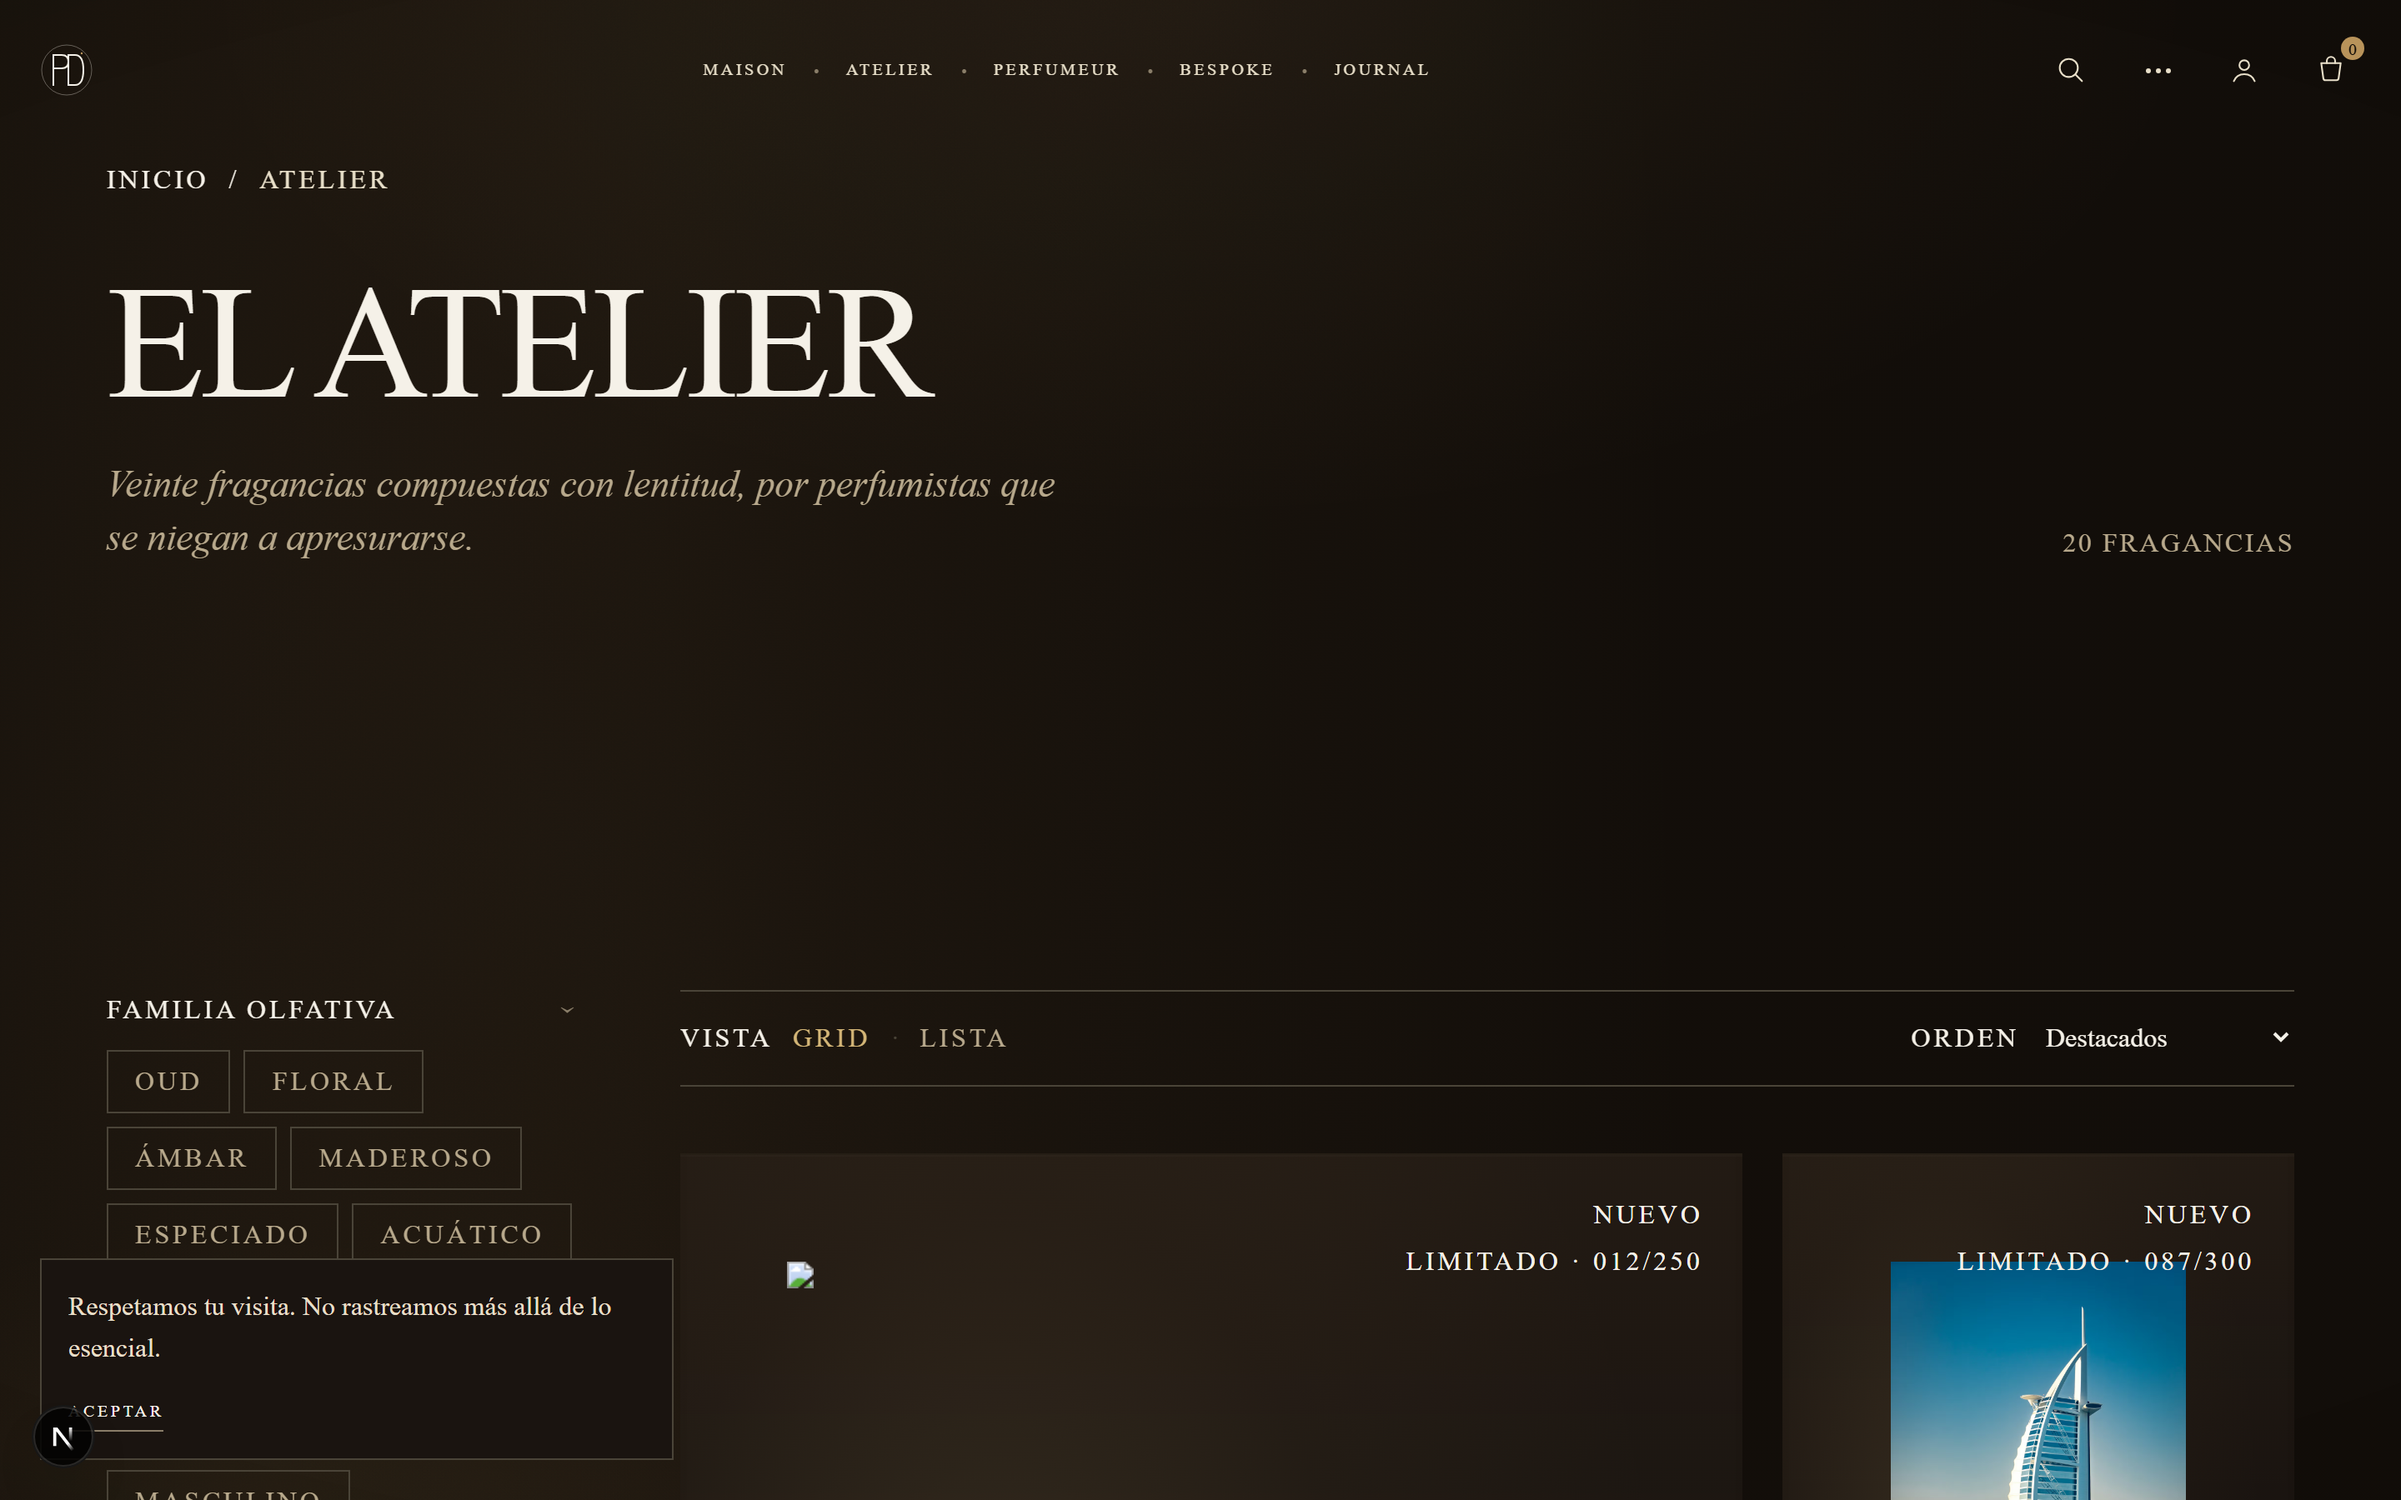
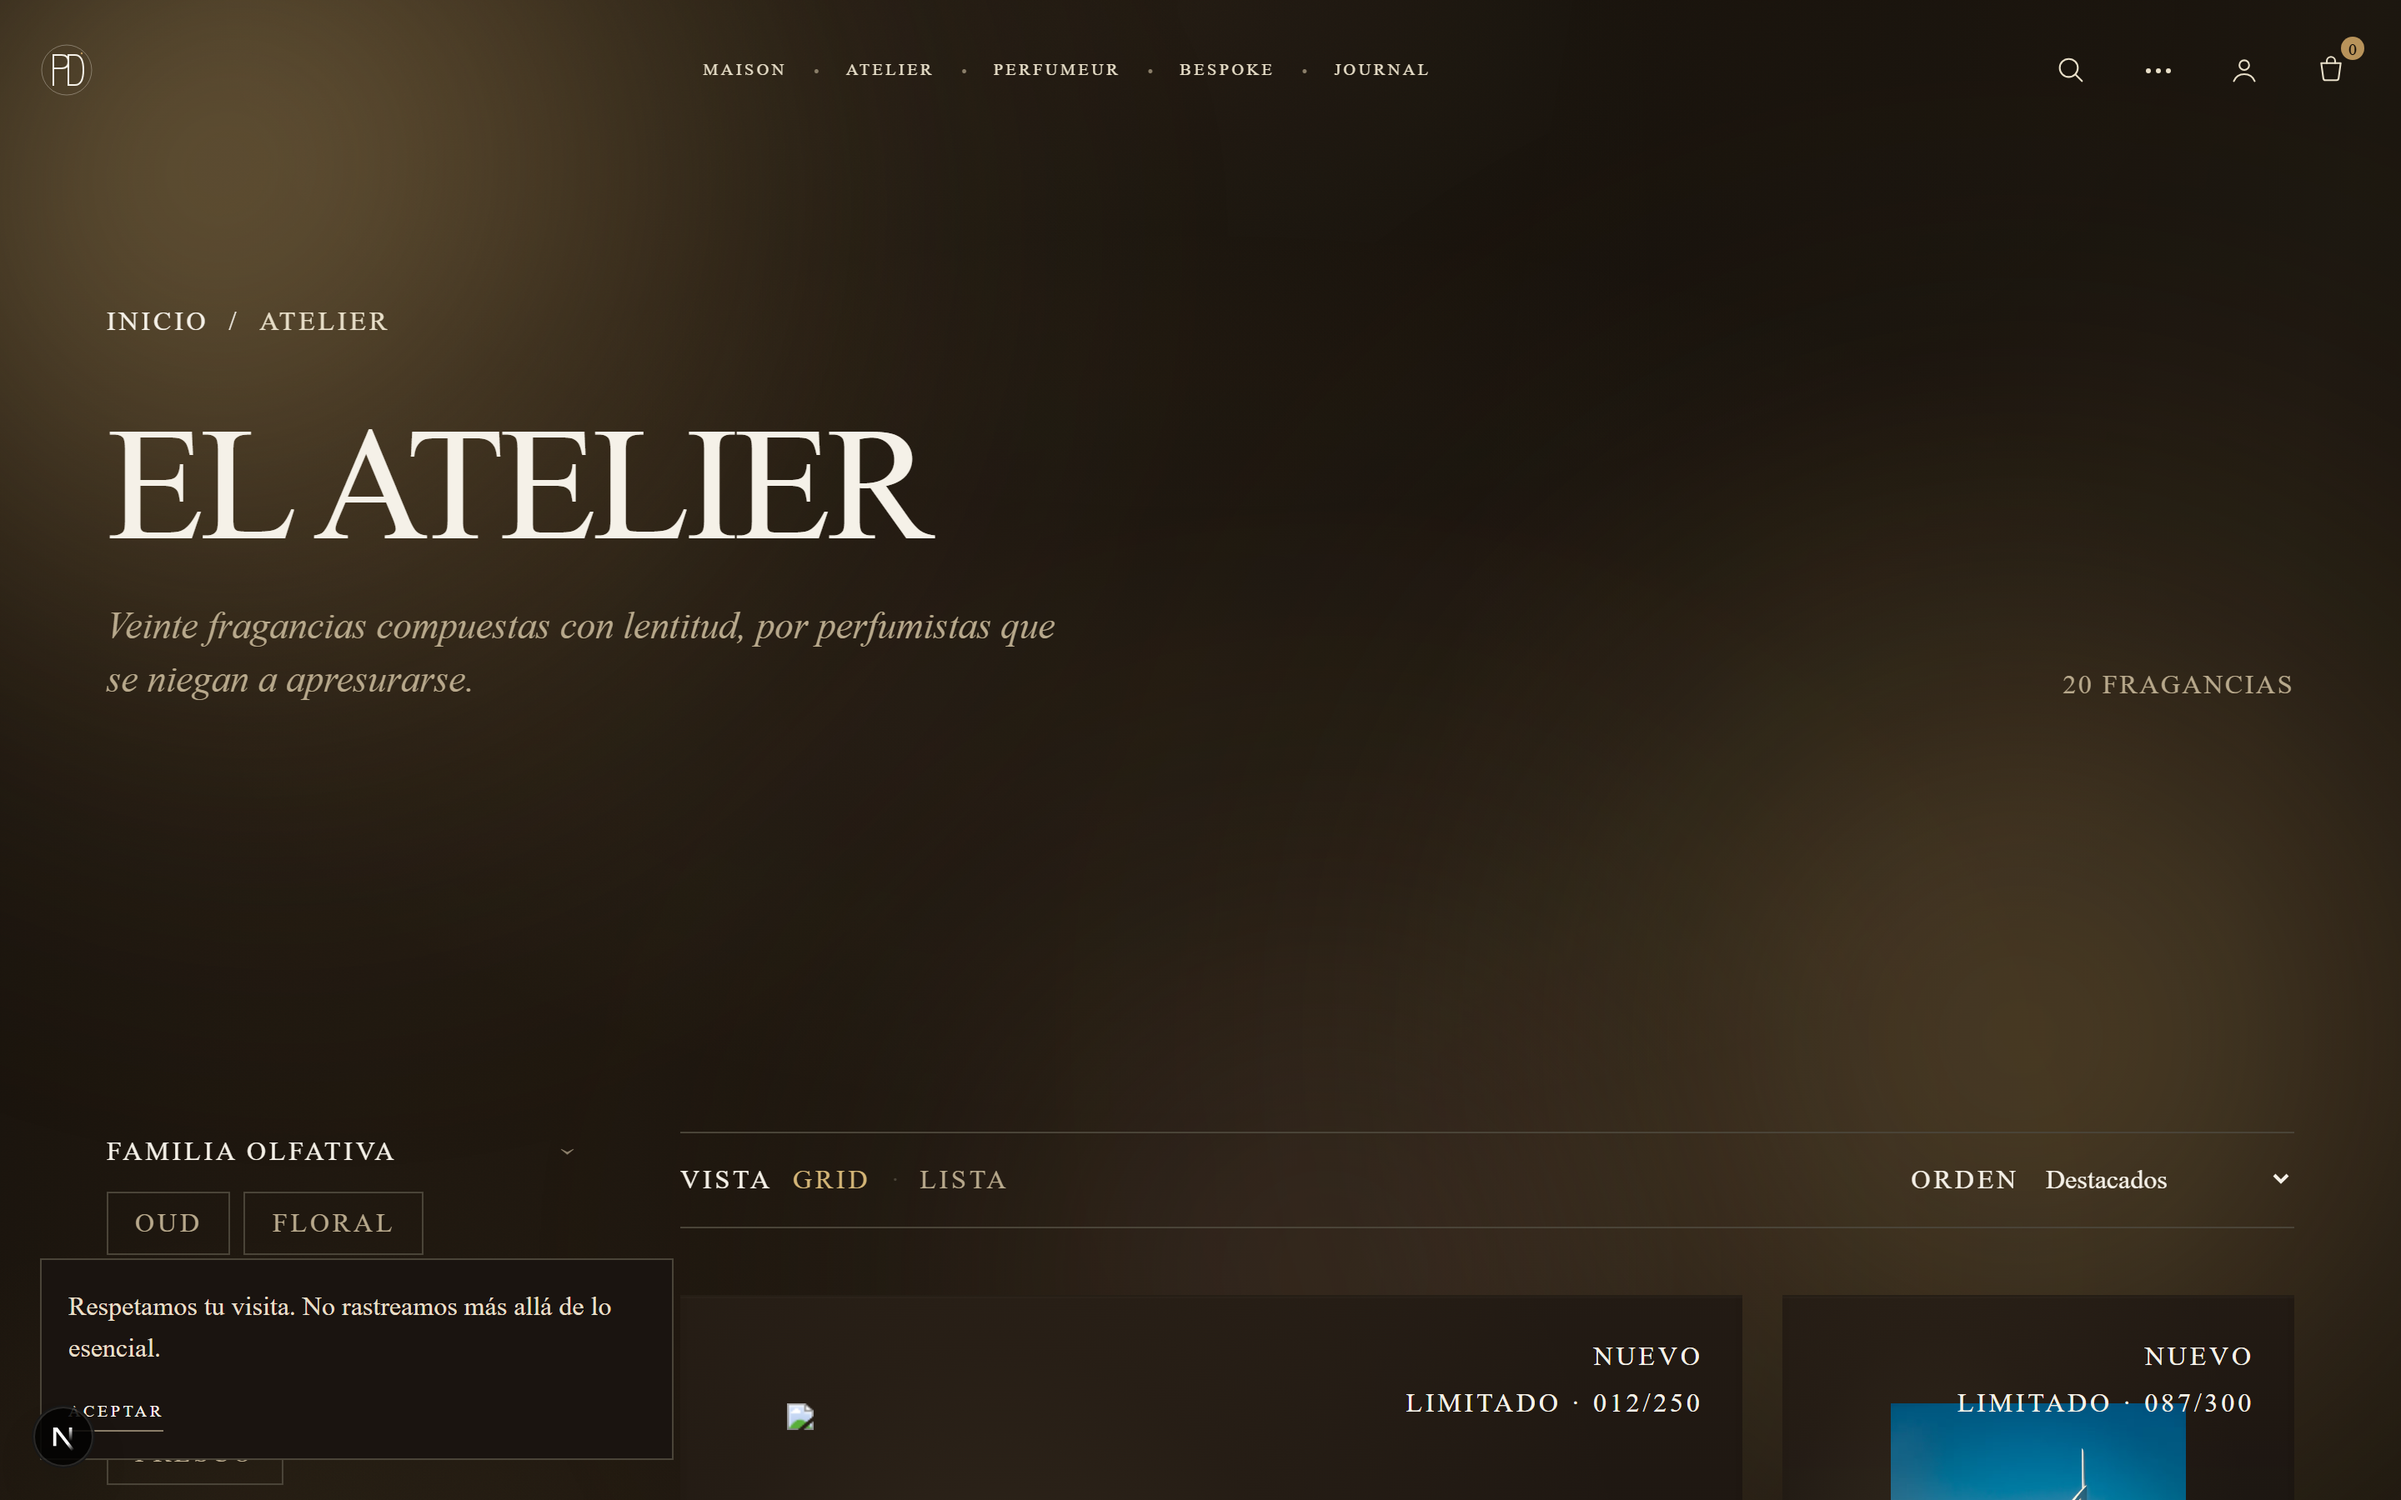
feat(ambient): drifting gold orbs + shimmer + slow warm pulse across all pages
Magic builder returned an object literal so I built the component directly
(faster + matches the brief). New <AmbientBackground/> renders four CSS-only
animated layers between body bg gradients and the vignette:

- 3 drifting blurred orbs (520-820 px) of warm gold + cocoa + rose,
  on three independent ease-in-out alternates of 38/52/46 s. Each shifts
  position + scale + opacity so the composition never repeats visibly.
- Slow horizontal shimmer sweep (24 s linear) — a thin gold band moves
  left to right suggesting an oil lamp drifting through the room.
- 11 s ease-in-out 'breath' on a centred warm gold wash, mix-blend screen.

Layer stack rationalised (z-index):
  body bg (gradients) | body::before halo (0) | body::after grain (1) |
  AmbientBackground orbs (2) | pd-vignette (3) | main + chrome (4)

Reduced motion: all three animations stop, orbs settle at 0.4 opacity.
Pure transform + opacity — GPU only. Verified visually on /atelier where
the orbs now read as warm light pools across the warm cocoa canvas.

diff --git a/app/globals.css b/app/globals.css
@@ -277,18 +277,186 @@ body::after {
   }
 }
 
+/* ─────────────────────────────────────────────────────────────────
+   AMBIENT BACKGROUND · drifting gold orbs + shimmer + pulse
+   Rendered by <AmbientBackground/> in the layout root. Sits BELOW
+   the vignette so the corners darken the orbs. Pure CSS, GPU only
+   (transform + opacity), reduced-motion aware. Below z:2 vignette
+   and z:3 main, above z:0 ambient halo on body.
+   ─────────────────────────────────────────────────────────────── */
+
+.pd-orb {
+  position: absolute;
+  display: block;
+  border-radius: 50%;
+  filter: blur(100px);
+  mix-blend-mode: screen;
+  opacity: 0.85;
+  will-change: transform, opacity;
+}
+
+.pd-orb-1 {
+  width: 640px;
+  height: 640px;
+  top: -160px;
+  left: -120px;
+  background: radial-gradient(
+    circle at 35% 35%,
+    rgba(212, 182, 119, 0.9) 0%,
+    rgba(184, 147, 90, 0.4) 35%,
+    rgba(142, 110, 63, 0.15) 60%,
+    transparent 80%
+  );
+  animation: pd-drift-1 38s ease-in-out infinite alternate;
+}
+
+.pd-orb-2 {
+  width: 820px;
+  height: 820px;
+  top: 25%;
+  right: -200px;
+  background: radial-gradient(
+    circle at 50% 50%,
+    rgba(184, 147, 90, 0.85) 0%,
+    rgba(142, 110, 63, 0.35) 40%,
+    rgba(92, 70, 40, 0.12) 65%,
+    transparent 85%
+  );
+  animation: pd-drift-2 52s ease-in-out infinite alternate;
+}
+
+.pd-orb-3 {
+  width: 540px;
+  height: 540px;
+  bottom: -160px;
+  left: 35%;
+  background: radial-gradient(
+    circle at 50% 50%,
+    rgba(201, 146, 138, 0.55) 0%,
+    rgba(184, 147, 90, 0.25) 45%,
+    transparent 80%
+  );
+  animation: pd-drift-3 46s ease-in-out infinite alternate;
+}
+
+@keyframes pd-drift-1 {
+  0% {
+    transform: translate3d(0, 0, 0) scale(1);
+    opacity: 0.55;
+  }
+  50% {
+    transform: translate3d(60px, 80px, 0) scale(1.08);
+    opacity: 0.7;
+  }
+  100% {
+    transform: translate3d(-30px, 140px, 0) scale(0.95);
+    opacity: 0.5;
+  }
+}
+
+@keyframes pd-drift-2 {
+  0% {
+    transform: translate3d(0, 0, 0) scale(1);
+    opacity: 0.45;
+  }
+  50% {
+    transform: translate3d(-90px, -60px, 0) scale(1.1);
+    opacity: 0.6;
+  }
+  100% {
+    transform: translate3d(40px, 100px, 0) scale(0.92);
+    opacity: 0.4;
+  }
+}
+
+@keyframes pd-drift-3 {
+  0% {
+    transform: translate3d(0, 0, 0) scale(1);
+    opacity: 0.4;
+  }
+  50% {
+    transform: translate3d(80px, -100px, 0) scale(1.15);
+    opacity: 0.55;
+  }
+  100% {
+    transform: translate3d(-60px, -40px, 0) scale(0.98);
+    opacity: 0.35;
+  }
+}
+
+.pd-shimmer {
+  position: absolute;
+  inset: 0;
+  background: linear-gradient(
+    100deg,
+    transparent 0%,
+    transparent 35%,
+    rgba(212, 182, 119, 0.06) 50%,
+    transparent 65%,
+    transparent 100%
+  );
+  background-size: 220% 100%;
+  background-position: -50% 50%;
+  animation: pd-shimmer-sweep 24s linear infinite;
+  mix-blend-mode: screen;
+  will-change: background-position;
+}
+
+@keyframes pd-shimmer-sweep {
+  from {
+    background-position: -50% 50%;
+  }
+  to {
+    background-position: 150% 50%;
+  }
+}
+
+.pd-pulse-warm {
+  position: absolute;
+  inset: 0;
+  background: radial-gradient(
+    ellipse 70% 50% at 50% 45%,
+    rgba(184, 147, 90, 0.08) 0%,
+    transparent 60%
+  );
+  animation: pd-pulse-breath 11s ease-in-out infinite;
+  mix-blend-mode: screen;
+}
+
+@keyframes pd-pulse-breath {
+  0%,
+  100% {
+    opacity: 0.6;
+  }
+  50% {
+    opacity: 1;
+  }
+}
+
+@media (prefers-reduced-motion: reduce) {
+  .pd-orb,
+  .pd-shimmer,
+  .pd-pulse-warm {
+    animation: none !important;
+  }
+  .pd-orb {
+    opacity: 0.4;
+  }
+}
+
 /* Vignette — top + bottom darker so the eye lands centre. Independent of
-   the ambient halo, drawn as a third fixed layer. */
+   the ambient halo, drawn as a third fixed layer. Z:3 so it sits ABOVE
+   the ambient orbs (z:2) and darkens them at the corners. Main is z:4. */
 .pd-vignette {
   position: fixed;
   inset: 0;
-  z-index: 2;
+  z-index: 3;
   pointer-events: none;
   background:
     radial-gradient(
       ellipse 140% 100% at 50% 50%,
-      transparent 55%,
-      rgba(0, 0, 0, 0.35) 100%
+      transparent 65%,
+      rgba(0, 0, 0, 0.25) 100%
     );
 }
 
@@ -323,11 +491,19 @@ body::after {
   );
 }
 
-/* All "real" content needs to sit above the ambient halo (z:0), grain (z:1)
-   and vignette (z:2). Apply to the layout root <main> if not already. */
+/* All "real" content needs to sit above the ambient halo (z:0), grain (z:1),
+   orbs (z:2), and vignette (z:3). Apply to the layout root <main>. */
 main {
   position: relative;
-  z-index: 3;
+  z-index: 4;
+}
+
+/* Navbar + Footer + chrome also need to sit above. */
+nav[aria-label],
+header,
+footer {
+  position: relative;
+  z-index: 4;
 }
 
 @media (pointer: fine) {

diff --git a/components/layout/AmbientBackground.tsx b/components/layout/AmbientBackground.tsx
@@ -1,0 +1,32 @@
+"use client";
+// Atmospheric ambient background — a fixed full-viewport layer with three
+// slowly drifting warm-gold orbs, a very slow shimmer sweep across the
+// horizontal axis, and a subtle pulsing warmth at the centre. CSS-only,
+// GPU-friendly (transform + opacity only), respects prefers-reduced-motion.
+//
+// Sits BEHIND the existing body bg gradients (z:0) — augments, not replaces.
+// Mounted from app/[locale]/layout.tsx above the vignette so the orbs are
+// dimmed at the corners.
+
+export function AmbientBackground() {
+  return (
+    <div
+      aria-hidden
+      className="pd-ambient pointer-events-none fixed inset-0 z-[2] overflow-hidden"
+    >
+      {/* Three drifting orbs of warm gold. Each on its own timeline so the
+          composition never repeats visibly. */}
+      <span className="pd-orb pd-orb-1" />
+      <span className="pd-orb pd-orb-2" />
+      <span className="pd-orb pd-orb-3" />
+
+      {/* Slow horizontal shimmer — a thin gold band that sweeps left → right
+          over 24s, fading at both ends. Suggests light from a moving lamp. */}
+      <span className="pd-shimmer" />
+
+      {/* Centre pulse — a single very slow opacity sine on a soft gold wash.
+          Adds the subtle "breathing" feel of an interior at dusk. */}
+      <span className="pd-pulse-warm" />
+    </div>
+  );
+}

diff --git a/app/[locale]/layout.tsx b/app/[locale]/layout.tsx
@@ -24,6 +24,7 @@ import {
   websiteSchema,
 } from "@/lib/seo/structured-data";
 import { GlobalErrorCapture } from "@/components/diagnostics/GlobalErrorCapture";
+import { AmbientBackground } from "@/components/layout/AmbientBackground";
 import "../globals.css";
 
 type LocaleParams = { locale: string };
@@ -137,6 +138,10 @@ export default async function LocaleLayout({
             Lenis can take over scroll. It receives copy as plain props from a
             server wrapper, so it does not depend on client hydration. */}
         <GlobalErrorCapture />
+        {/* Ambient atmospheric background — drifting gold orbs + shimmer +
+            slow warm pulse. Sits between the body bg gradients (z:0) and
+            the page-level vignette (z:2). */}
+        <AmbientBackground />
         {/* Global vignette — sits above body bg + ambient halo + grain.
             Drawn as a discrete element (not a body pseudo) so it does NOT
             interfere with React reconciliation. */}
